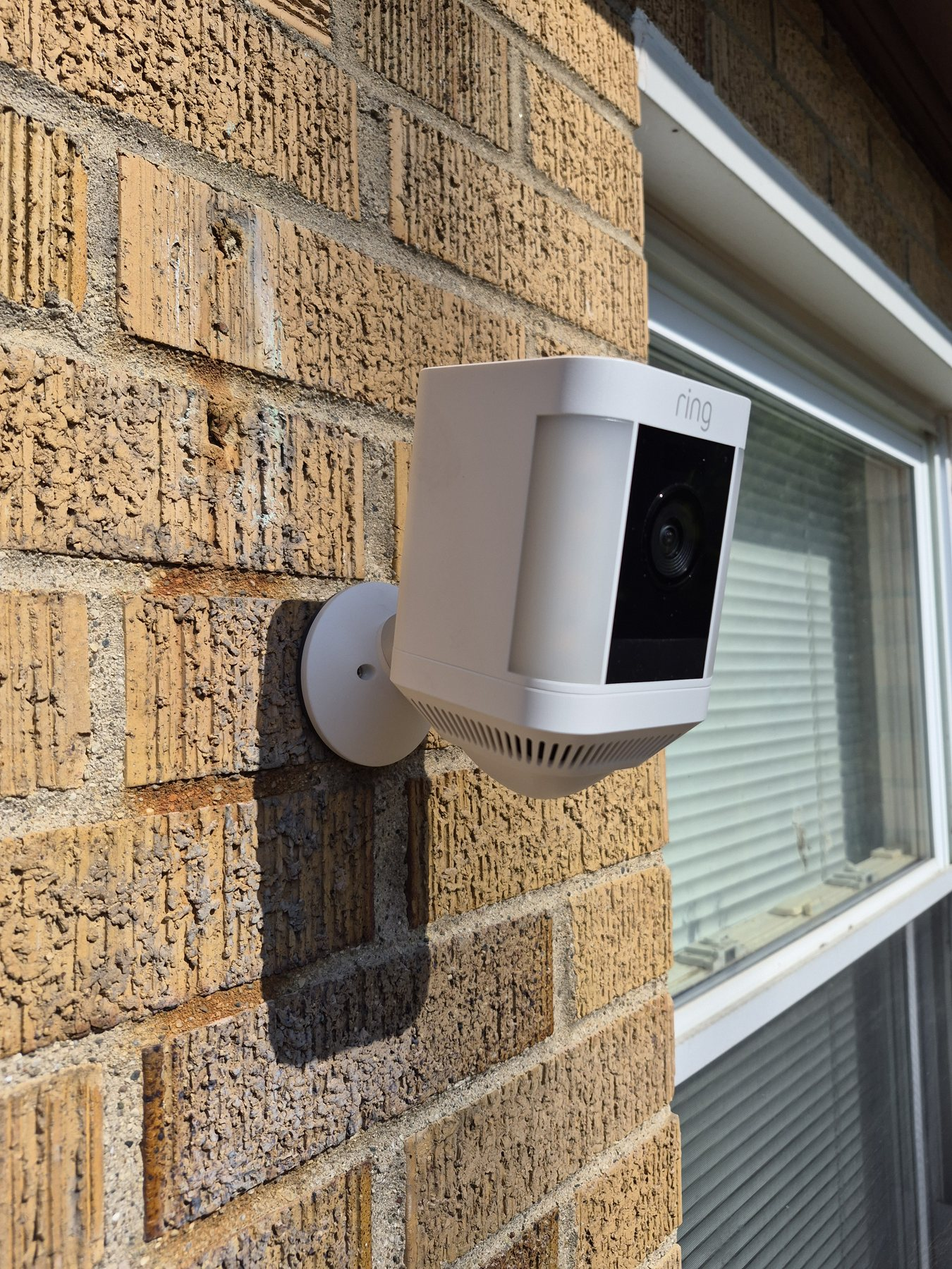
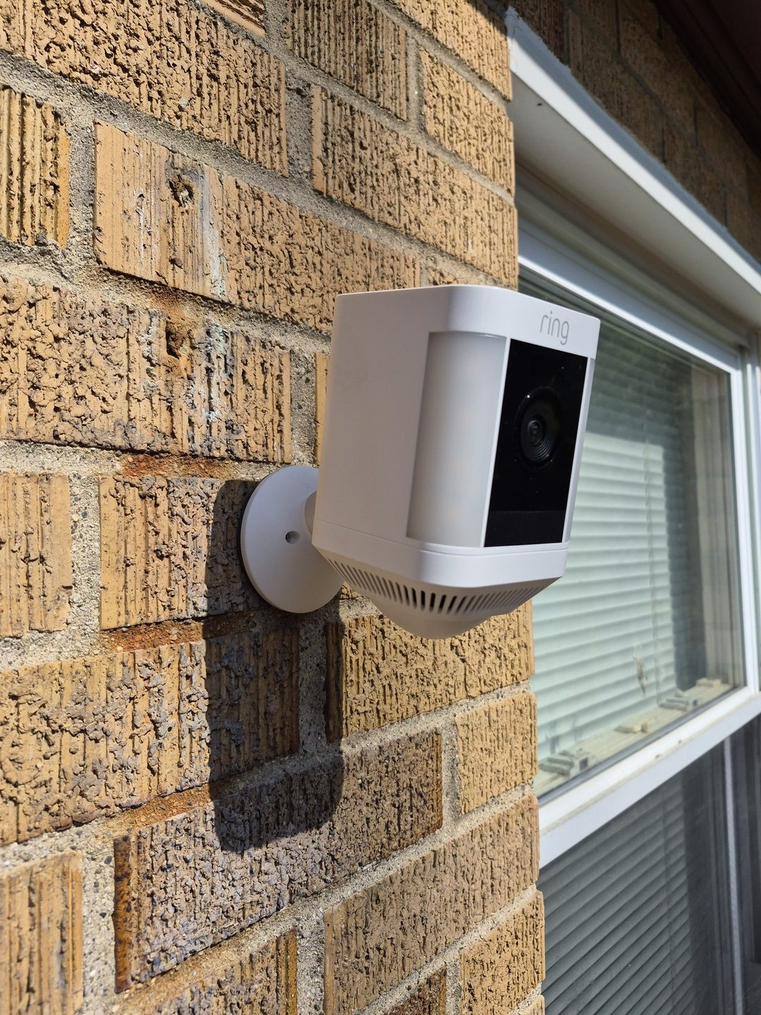
Optimize service page imagery

diff --git a/security-camera-installation-cincinnati/index.html b/security-camera-installation-cincinnati/index.html
@@ -13,8 +13,8 @@
   <meta property="og:title" content="Residential Security Camera Installation in Cincinnati" />
   <meta property="og:description" content="Thoughtful placement, secure mounting and final verification for homeowner-owned smart cameras." />
   <meta property="og:image" content="https://thecovedalecraftsman.com/security-camera-installation-cincinnati/residential-security-camera-installation-cincinnati.jpg" />
-  <meta property="og:image:width" content="1350" />
-  <meta property="og:image:height" content="1800" />
+  <meta property="og:image:width" content="1080" />
+  <meta property="og:image:height" content="1440" />
   <meta property="og:image:alt" content="Ring security camera installed on brick beside a Cincinnati home entrance" />
   <meta property="og:url" content="https://thecovedalecraftsman.com/security-camera-installation-cincinnati/" />
   <meta property="og:type" content="website" />
@@ -714,7 +714,7 @@
           </div>
         </div>
         <div class="hero-photo-wrap">
-          <img class="hero-photo" src="residential-security-camera-installation-cincinnati.jpg" width="1350" height="1800" alt="Ring security camera mounted on brick beside a residential entrance" />
+          <img class="hero-photo" src="residential-security-camera-installation-cincinnati.jpg" width="1080" height="1440" alt="Ring security camera mounted on brick beside a residential entrance" fetchpriority="high" decoding="async" />
           <p class="photo-note">Real Cincinnati camera project</p>
         </div>
       </div>
@@ -824,7 +824,7 @@
 
     <section class="section hardwired" aria-labelledby="hardwired-heading">
       <div class="shell split-grid">
-        <img class="split-photo" src="eufy-floodlight-camera-installation-cincinnati.jpg" width="1350" height="1800" alt="Eufy floodlight security camera installed beneath a residential soffit" loading="lazy" />
+        <img class="split-photo" src="eufy-floodlight-camera-installation-cincinnati.jpg" width="1080" height="1440" alt="Eufy floodlight security camera installed beneath a residential soffit" loading="lazy" />
         <div class="split-copy">
           <p class="eyebrow">Historical camera projects</p>
           <h2 id="hardwired-heading">The right plan depends on the camera and the home.</h2>
@@ -884,15 +884,15 @@
         </div>
         <div class="gallery">
           <figure>
-            <img src="ring-camera-installed-on-brick-cincinnati.jpg" width="1350" height="1800" alt="Front view of a Ring security camera securely mounted on a brick exterior wall" loading="lazy" />
+            <img src="ring-camera-installed-on-brick-cincinnati.jpg" width="1080" height="1440" alt="Front view of a Ring security camera securely mounted on a brick exterior wall" loading="lazy" />
             <figcaption>Ring camera mounted on exterior brick.</figcaption>
           </figure>
           <figure>
-            <img src="ring-camera-brick-mount-detail-cincinnati.jpg" width="1350" height="1800" alt="Close-up of an adjustable Ring security camera mount installed on brick" loading="lazy" />
+            <img src="ring-camera-brick-mount-detail-cincinnati.jpg" width="1080" height="1440" alt="Close-up of an adjustable Ring security camera mount installed on brick" loading="lazy" />
             <figcaption>Adjustable mount and clean finished brick installation.</figcaption>
           </figure>
           <figure>
-            <img src="ring-camera-doorway-installation-cincinnati.jpg" width="1350" height="1800" alt="Ring security camera mounted on brick between a residential door and window" loading="lazy" />
+            <img src="ring-camera-doorway-installation-cincinnati.jpg" width="1080" height="1440" alt="Ring security camera mounted on brick between a residential door and window" loading="lazy" />
             <figcaption>Ring camera positioned near a residential entrance.</figcaption>
           </figure>
         </div>
@@ -902,7 +902,7 @@
     <section class="section review-section" aria-labelledby="review-heading">
       <div class="shell review-grid">
         <div>
-          <img class="review-photo" src="ring-camera-placement-at-home-entrance-cincinnati.jpg" width="1350" height="1800" alt="Wide view of a Ring security camera installed near a residential entrance" loading="lazy" />
+          <img class="review-photo" src="ring-camera-placement-at-home-entrance-cincinnati.jpg" width="1080" height="1440" alt="Wide view of a Ring security camera installed near a residential entrance" loading="lazy" />
           <p><small>Ring camera mounting example</small></p>
         </div>
         <div class="review-copy">

diff --git a/smart-home-installation-cincinnati/index.html b/smart-home-installation-cincinnati/index.html
@@ -12,9 +12,9 @@
 
   <meta property="og:title" content="Smart Home Installation in Cincinnati | The Covedale Craftsman" />
   <meta property="og:description" content="Careful installation, connection, testing and a clear homeowner walkthrough for technology that should make life easier." />
-  <meta property="og:image" content="https://thecovedalecraftsman.com/hero-placeholder.png" />
-  <meta property="og:image:width" content="3072" />
-  <meta property="og:image:height" content="2048" />
+  <meta property="og:image" content="https://thecovedalecraftsman.com/hero-placeholder-social.jpg" />
+  <meta property="og:image:width" content="1536" />
+  <meta property="og:image:height" content="1024" />
   <meta property="og:image:alt" content="Illustration of a smart-home installer explaining a connected doorbell app" />
   <meta property="og:url" content="https://thecovedalecraftsman.com/smart-home-installation-cincinnati/" />
   <meta property="og:type" content="website" />
@@ -748,11 +748,11 @@
         </div>
         <div class="service-feature-grid">
           <article class="service-feature">
-            <img src="../video-doorbell-installation-cincinnati/video-doorbell-finished-installation-cincinnati.jpg" width="1350" height="1800" alt="Finished video doorbell installation on a Cincinnati brick home" />
+            <img src="../video-doorbell-installation-cincinnati/video-doorbell-finished-installation-cincinnati.jpg" width="1080" height="1440" alt="Finished video doorbell installation on a Cincinnati brick home" loading="lazy" decoding="async" />
             <div class="service-feature-copy"><h3>Video doorbell installation</h3><p>Careful mounting for battery-powered video doorbells, basic connection, testing and a clear homeowner walkthrough, with the model and existing setup reviewed before scheduling.</p><a class="service-feature-link" href="../video-doorbell-installation-cincinnati/">Explore video doorbell installation &nbsp;→</a></div>
           </article>
           <article class="service-feature">
-            <img src="../security-camera-installation-cincinnati/residential-security-camera-installation-cincinnati.jpg" width="1350" height="1800" alt="Residential Ring security camera installed on brick beside a Cincinnati entrance" />
+            <img src="../security-camera-installation-cincinnati/residential-security-camera-installation-cincinnati.jpg" width="1080" height="1440" alt="Residential Ring security camera installed on brick beside a Cincinnati entrance" loading="lazy" decoding="async" />
             <div class="service-feature-copy"><h3>Security camera installation</h3><p>Thoughtful placement and secure mounting for homeowner-owned Ring, Arlo, Blink, Eufy and similar residential smart cameras.</p><a class="service-feature-link" href="../security-camera-installation-cincinnati/">Explore security camera installation &nbsp;→</a></div>
           </article>
         </div>

diff --git a/video-doorbell-installation-cincinnati/index.html b/video-doorbell-installation-cincinnati/index.html
@@ -1443,12 +1443,12 @@
 
         <div class="photo-grid">
           <figure class="project-photo-card">
-            <img src="video-doorbell-finished-installation-cincinnati.jpg" width="1400" height="1867" loading="lazy" decoding="async" alt="Video doorbell securely mounted on brick at a Cincinnati home" />
+            <img src="video-doorbell-finished-installation-cincinnati.jpg" width="1080" height="1440" loading="lazy" decoding="async" alt="Video doorbell securely mounted on brick at a Cincinnati home" />
             <figcaption><strong>Finished installation</strong><span>Securely mounted with a clean, aligned result.</span></figcaption>
           </figure>
 
           <figure class="project-photo-card">
-            <img src="video-doorbell-placement-cincinnati.jpg" width="1400" height="1867" loading="lazy" decoding="async" alt="Video doorbell positioned beside the front entrance of a Cincinnati home" />
+            <img src="video-doorbell-placement-cincinnati.jpg" width="1080" height="1440" loading="lazy" decoding="async" alt="Video doorbell positioned beside the front entrance of a Cincinnati home" />
             <figcaption><strong>Thoughtful placement</strong><span>Positioned on the brick beside the entrance.</span></figcaption>
           </figure>
 
